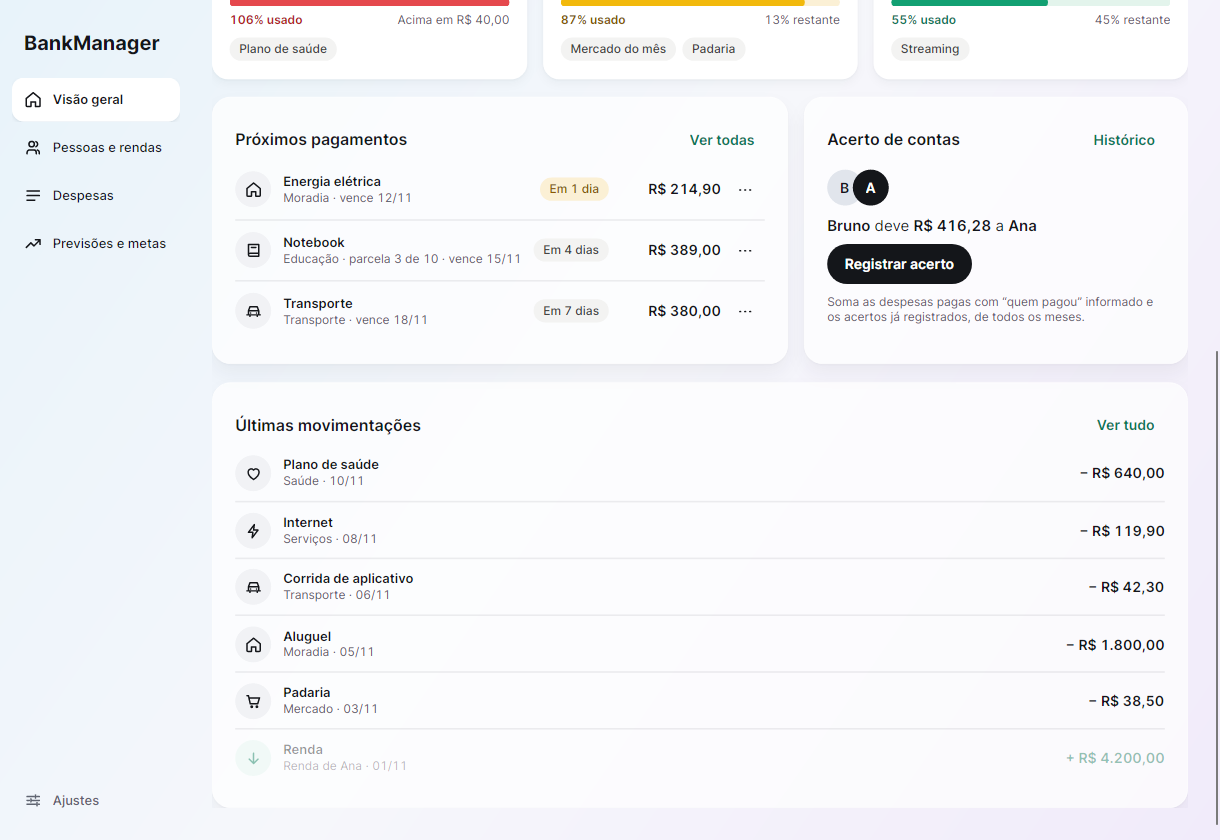
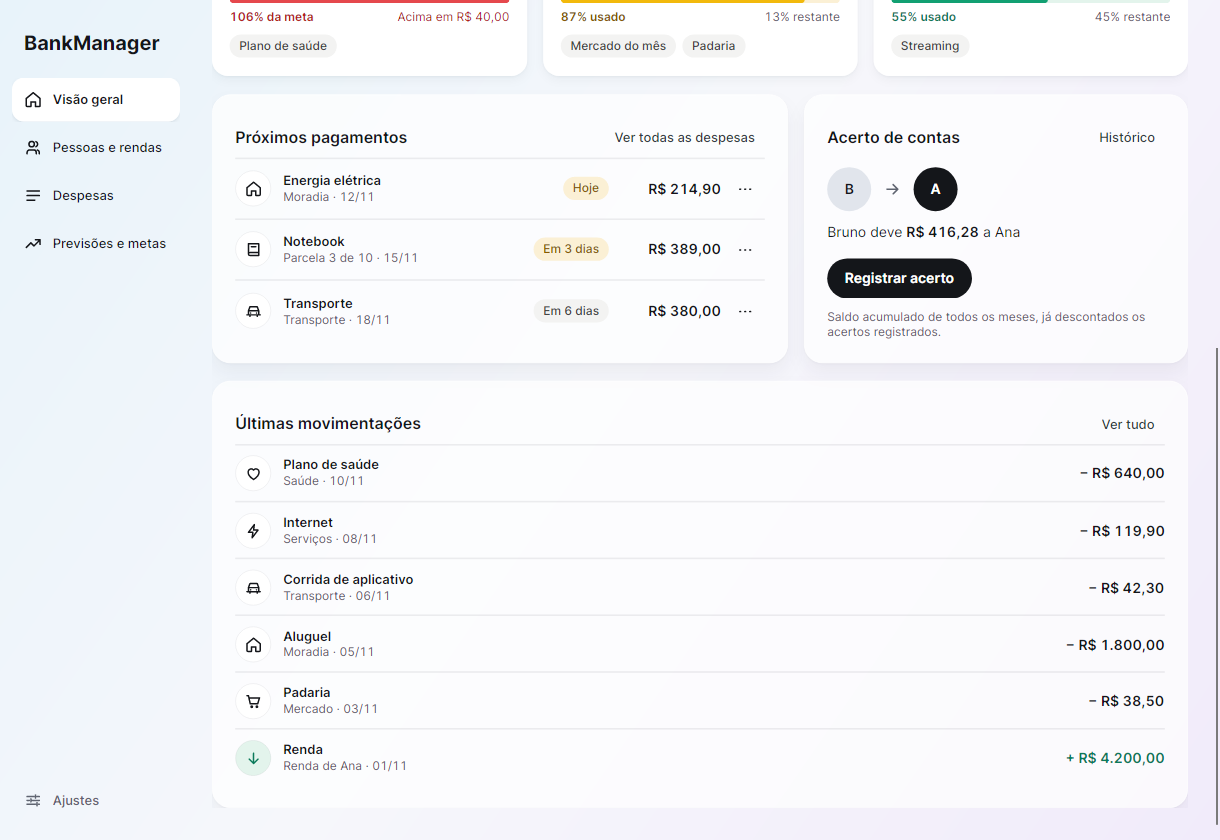
docs: versão 2.2.0, compartilhamento de despesas, data de pagamento e resumo da evolução
README com capturas novas, seção Compartilhar despesas, aviso de compatibilidade
(a 2.0 e a 2.1 não abrem dados salvos pela 2.2) e tabela de downloads da 2.2.0.
LEIA-ME, guia do código e notas de versão atualizados. O resumo da evolução passa a
cobrir até a 2.2 e entra no repositório. O .gitignore passa a ignorar arquivos de
compartilhamento (*.bmshare.json).

diff --git a/README.md b/README.md
@@ -8,6 +8,8 @@ Aplicativo desktop de gestão financeira individual e familiar em **C# / .NET 10
 ![Fim da visão geral: próximos pagamentos, acerto de contas e últimas movimentações (dados de demonstração)](docs/visao-geral-2.png)
 ![Metas por categoria em Previsões e metas (dados de demonstração)](docs/metas.png)
 ![Lista de despesas no tema escuro (dados de demonstração)](docs/despesas-escuro.png)
+![Assistente Compartilhar despesas (dados de demonstração)](docs/compartilhar.png)
+![Assistente Importar despesas compartilhadas (dados de demonstração)](docs/importar-compartilhadas.png)
 
 ## Baixar pronto e compartilhar
 
@@ -15,14 +17,16 @@ Aplicativo desktop de gestão financeira individual e familiar em **C# / .NET 10
 
 | Computador | Arquivo | Como usar |
 | --- | --- | --- |
-| Windows 64 bits (Intel/AMD) | `BankManager-2.1.0-win-x64-setup.exe` | **Instalador (recomendado).** Dê dois cliques; instala só para você, sem administrador, com atalho no menu Iniciar |
-| Windows 64 bits (Intel/AMD) | `BankManager-2.1.0-win-x64.zip` | Portátil: extrair **tudo** e abrir `BankManager.exe` |
-| Linux 64 bits (Intel/AMD) | `BankManager-2.1.0-x86_64.AppImage` | **Um arquivo só (recomendado).** `chmod +x` e dois cliques, ou `./BankManager-2.1.0-x86_64.AppImage` |
-| Linux 64 bits (Intel/AMD) | `BankManager-2.1.0-linux-x64.tar.gz` | Portátil: extrair **tudo**, `./Iniciar.sh`; `./Instalar-atalho.sh` cria o atalho e o ícone no menu |
+| Windows 64 bits (Intel/AMD) | `BankManager-2.2.0-win-x64-setup.exe` | **Instalador (recomendado).** Dê dois cliques; instala só para você, sem administrador, com atalho no menu Iniciar |
+| Windows 64 bits (Intel/AMD) | `BankManager-2.2.0-win-x64.zip` | Portátil: extrair **tudo** e abrir `BankManager.exe` |
+| Linux 64 bits (Intel/AMD) | `BankManager-2.2.0-x86_64.AppImage` | **Um arquivo só (recomendado).** `chmod +x` e dois cliques, ou `./BankManager-2.2.0-x86_64.AppImage` |
+| Linux 64 bits (Intel/AMD) | `BankManager-2.2.0-linux-x64.tar.gz` | Portátil: extrair **tudo**, `./Iniciar.sh`; `./Instalar-atalho.sh` cria o atalho e o ícone no menu |
 
 Todos incluem o .NET: não é preciso instalar SDK, Rider ou Visual Studio. Para compartilhar, envie o **link da release** ou o arquivo **completo**. Não envie só o executável, nem seus backups financeiros. Veja [as instruções incluídas no pacote](docs/LEIA-ME.txt).
 
 **Sem assinatura digital.** O Windows pode avisar "editor não identificado"; confira que o download veio deste repositório e, se quiser, o checksum (`.sha256`, mais abaixo). No Linux, é necessário desktop com X11/XWayland e bibliotecas do sistema; ARM e Alpine/musl não têm pacote. O AppImage usa FUSE; sem ele, rode com `--appimage-extract-and-run`.
+
+**Antes de atualizar, exporte um backup** (Ajustes → Exportar backup). A versão 2.2 grava os dados em um formato novo (esquema 3, com a data de pagamento). Ela abre e atualiza sem perda os dados das versões 1.x, 2.0 e 2.1, mas **as versões 2.0 e 2.1 (e a 1.x) não abrem dados já salvos pela 2.2**.
 
 **Atualizar.** O aplicativo **nunca acessa a internet**, então não tem atualizador próprio. No Windows, rode o instalador novo: ele atualiza por cima da versão instalada. No Linux, baixe o AppImage novo (ou use a ferramenta [AppImageUpdate](https://github.com/AppImage/AppImageUpdate) sobre o arquivo antigo, que lê a informação de atualização embutida e baixa só a diferença). No pacote portátil, extraia a versão nova em outra pasta. Em todos os casos seus dados ficam na pasta local da sua conta, separados do programa: atualizar ou desinstalar **não os apaga**. Mesmo assim, exporte um backup antes de atualizar. A versão 2 grava os dados no esquema 2, que o BankManager 1.x não abre; as versões antigas dos dados são lidas e atualizadas sem perda.
 
@@ -50,7 +54,9 @@ A restauração inicial requer NuGet ou pacotes já presentes no cache. O uso do
 4. Para dívidas parceladas, informe o **valor total**, incluindo juros já negociados, e até 120 parcelas. Cada vencimento é criado no mês correspondente. Listas de itens são lançadas à vista.
 5. Para contas fixas (aluguel, internet, assinaturas), marque **Repetir todo mês** ao criar a despesa. Em **Despesas → Recorrentes** (ou em **Previsões e metas → Despesas recorrentes**) você encerra ou remove cada uma. Na lista de despesas, use o menu **⋯** de cada linha para marcar como paga, editar ou excluir; filtre por busca, situação e categoria e navegue entre meses. **Ctrl+N** abre uma nova despesa em qualquer tela.
 6. Em **Previsões e metas**, um submenu reúne as metas por categoria, a previsão do mês seguinte ao selecionado, as despesas recorrentes e o acerto de contas.
-7. Em **Ajustes**, escolha o tema (claro, escuro ou automático) e exporte backups para outro local. Importações são validadas e pedem confirmação antes de substituir o histórico.
+7. Ao marcar uma despesa como paga, o aplicativo guarda **quem pagou** e a **data do pagamento** (hoje, ou a que você informar). A lista mostra "Pago em dd/MM".
+8. Para mandar algumas despesas a outra pessoa, use **Despesas → Compartilhar**; quem recebe usa **Importar** e as despesas são adicionadas às dela, sem substituir nada (veja [Compartilhar despesas](#compartilhar-despesas)).
+9. Em **Ajustes**, escolha o tema (claro, escuro ou automático) e exporte backups para outro local. Importações são validadas e pedem confirmação antes de substituir o histórico.
 
 ## Regras financeiras
 
@@ -61,14 +67,36 @@ A restauração inicial requer NuGet ou pacotes já presentes no cache. O uso do
 - Os centavos restantes do rateio seguem os maiores restos fracionários, com desempate estável por identificador. A soma sempre coincide com a despesa.
 - Parcelas distribuem exatamente o total, incluindo centavos, preservando o dia de referência quando possível: 31/jan → 28 ou 29/fev → 31/mar.
 - Editar uma renda ou despesa individual recalcula o rateio daquele mês. O histórico não é um livro contábil imutável. Uma edição/exclusão de parcela afeta apenas o lançamento selecionado.
-- **Saldo planejado = renda − todas as despesas do mês**, pagas ou em aberto. Marcar pago quita o lançamento inteiro para todos os responsáveis; não há pagamento parcial ou conciliação bancária.
+- **Saldo planejado = renda − todas as despesas do mês**, pagas ou em aberto. Marcar pago quita o lançamento inteiro para todos os responsáveis e guarda a data do pagamento; reabrir apaga a data e quem pagou. Não há pagamento parcial ou conciliação bancária. O saldo e o gráfico seguem o **vencimento**; só a lista de últimas movimentações segue a data do pagamento.
 
 ## Planilhas (CSV)
 
 Em **Ajustes → Seus dados → Planilhas**:
 
-- **Exportar despesas (CSV):** todas as despesas, com data, descrição, categoria, valor, situação, quem pagou, responsáveis, divisão, parcela e se é recorrente. O arquivo usa ponto e vírgula, vírgula decimal e UTF-8 com BOM, então abre direto no Excel em português. Textos que começam com `=`, `+`, `-` ou `@` recebem um apóstrofo, para a planilha não executá-los como fórmula.
-- **Importar extrato (CSV):** um assistente lê o arquivo (UTF-8 ou Latin-1; separador `;`, `,` ou tabulação), sugere as colunas de data, descrição e valor, e mostra ao vivo o que será importado, ignorado, repetido ou com erro (com o número da linha). Valores negativos são despesas (extrato de conta); para fatura de cartão, escolha "Positivos". Entradas, estornos e valor zero são ignorados. As despesas entram **já pagas**, na categoria **Outros** e **sem "quem pagou"**, então não entram no acerto de contas; edite cada uma para mudar a categoria. Importar o mesmo extrato duas vezes não repete nada (mesma data, valor e descrição). Limites: 5 MB e 10.000 linhas.
+- **Exportar despesas (CSV):** todas as despesas, com data, descrição, categoria, valor, situação, quem pagou, responsáveis, divisão, parcela, se é recorrente e a data do pagamento. O arquivo usa ponto e vírgula, vírgula decimal e UTF-8 com BOM, então abre direto no Excel em português. Textos que começam com `=`, `+`, `-` ou `@` recebem um apóstrofo, para a planilha não executá-los como fórmula.
+- **Importar extrato (CSV):** um assistente lê o arquivo (UTF-8 ou Latin-1; separador `;`, `,` ou tabulação), sugere as colunas de data, descrição e valor, e mostra ao vivo o que será importado, ignorado, repetido ou com erro (com o número da linha). Valores negativos são despesas (extrato de conta); para fatura de cartão, escolha "Positivos". Entradas, estornos e valor zero são ignorados. As despesas entram **já pagas**, na categoria **Outros** e **sem "quem pagou"**, então não entram no acerto de contas; edite cada uma para mudar a categoria. Importar o mesmo extrato duas vezes não repete nada (mesma data, valor e descrição). Limites: 5 MB e 10.000 linhas. A data de cada linha vira também a data do pagamento.
+
+## Compartilhar despesas
+
+Serve para passar **algumas** despesas a outra pessoa que usa o BankManager (por exemplo, as contas da casa para quem divide com você). É diferente do backup: o backup leva tudo e, ao ser importado, **substitui** a base; o compartilhamento leva só o que você marcar e, ao ser importado, **adiciona**.
+
+**Enviar (Despesas → Compartilhar, ou Ajustes → Compartilhar despesas):**
+
+- Marque as despesas nas caixas de seleção ou use os atalhos: **Todas deste mês**, **Marcar uma categoria** e **Completar parcelas** (marca as outras parcelas das compras parceladas já marcadas).
+- A prévia mostra quantas despesas vão, o total e as pessoas citadas. O arquivo tem extensão própria, `.bmshare.json`.
+- Vão no arquivo: descrição, categoria, vencimento, valor, itens da lista de compra, dados de parcela, modo de divisão, os responsáveis **pelo nome** e as categorias próprias usadas. **Nunca vão:** rendas, metas, acertos de contas e despesas não marcadas.
+- Por padrão, todas vão "em aberto". Marque **Incluir a situação de pagamento** para levar também pago/em aberto, a data do pagamento e quem pagou.
+- O arquivo é um texto legível, sem senha, com informações financeiras: envie só para quem deve recebê-lo.
+
+**Receber (Despesas → Importar, ou Ajustes → Importar despesas compartilhadas):**
+
+1. O arquivo é validado (tamanho de até 5 MB, até 5.000 despesas, campos desconhecidos e versões mais novas recusados) e resumido.
+2. **Pessoas:** para cada nome do arquivo, escolha uma pessoa já cadastrada, criar um cadastro novo ou ignorar. O aplicativo sugere pelo nome (sem diferenciar maiúsculas e acentos), mas a escolha é sua. Se todas as pessoas de uma despesa forem ignoradas, é preciso escolher quem assume.
+3. **Categorias** próprias que não existem na sua base: criar (até o limite de 40) ou usar "Outros".
+4. **Prévia ao vivo:** o que será adicionado, o que já existe e o que tem erro. Cada despesa carrega um identificador de origem; importar o mesmo arquivo duas vezes **não duplica** nada (as repetidas são puladas, a menos que você marque para importar mesmo assim).
+5. Ao confirmar, tudo é gravado de uma vez (ou nada, se algo falhar), e a versão anterior da base vira a cópia automática. No fim aparece "N despesas adicionadas, M puladas".
+
+Atenção à **divisão proporcional**: ela depende da renda de cada pessoa na base de quem importa, então o rateio é recalculado com as rendas de lá e pode ser diferente do seu. Quem importa pode manter o modo ou trocar por divisão igual. Despesas recorrentes viajam como despesas comuns (o modelo "todo mês" não é enviado). Um backup escolhido no lugar de um compartilhamento (ou o contrário) é recusado com uma mensagem clara, sem alterar nada.
 
 ## Buscar em todos os meses
 
@@ -85,7 +113,7 @@ De cima para baixo:
 - **Saldo planejado:** renda do mês menos todas as despesas do mês (pagas ou em aberto), com um gráfico das despesas dos últimos 6 meses até o mês selecionado. O eixo do gráfico sempre começa em zero, para não exagerar diferenças; passe o mouse em uma barra para ver o valor. Meses sem despesas aparecem com uma barra mínima.
 - **Resumo da casa:** despesas do mês, quanto da renda elas comprometem, renda e valor em aberto.
 - **Metas do mês**, **Próximos pagamentos** (as três contas em aberto mais próximas, com o menu **⋯**) e **Acerto de contas**.
-- **Últimas movimentações:** as rendas do mês e as despesas já marcadas como pagas, das mais recentes para as mais antigas (até 6; "Ver tudo" abre Despesas). Como a renda só tem mês, ela entra com a data do dia 1; a despesa entra pela data de vencimento, porque o aplicativo não guarda o dia do pagamento. Quando há mais itens do que cabem, a última linha fica esmaecida.
+- **Últimas movimentações:** as rendas do mês e as despesas pagas, das mais recentes para as mais antigas (até 6; "Ver tudo" abre Despesas). Como a renda só tem mês, ela entra com a data do dia 1. A despesa entra pela **data do pagamento** e aparece no mês em que foi paga; as que foram pagas em versões anteriores, sem essa data, usam o vencimento.
 
 ## Metas por categoria
 
@@ -127,7 +155,7 @@ Parcelas ficam fora da média para não continuarem sendo previstas após o tér
 
 Os arquivos ficam em `Environment.SpecialFolder.LocalApplicationData/BankManager` (o caminho efetivo aparece na interface). Para desenvolvimento/testes, `BANKMANAGER_DATA_DIR` permite escolher uma pasta isolada.
 
-- `financas.json`: base atual, JSON versionado (esquema 2, que acrescentou as despesas recorrentes). Arquivos e backups da versão 1 continuam sendo lidos e são atualizados sem perda; o arquivo antigo vira a cópia anterior no primeiro salvamento. Um arquivo de versão mais nova que a do aplicativo é recusado.
+- `financas.json`: base atual, JSON versionado (esquema 3: o 2 acrescentou recorrências, quem pagou, metas e categorias; o 3, a data de pagamento e a origem de despesas importadas). Arquivos e backups das versões 1 e 2 continuam sendo lidos e são atualizados sem perda; o arquivo antigo vira a cópia anterior no primeiro salvamento. Um arquivo de versão mais nova que a do aplicativo é recusado.
 - `settings.json`: preferências do aplicativo (tema). Fica separado das finanças: trocar a aparência nunca altera o `financas.json`, e um arquivo de preferências inválido apenas volta ao padrão.
 - `financas.backup.json`: versão anterior ao último salvamento, não um histórico ilimitado de backups.
 - `.lock`: bloqueio de acesso concorrente por outra instância cooperante do aplicativo.
@@ -189,10 +217,10 @@ No Windows, use `python` no lugar de `python3`. O script escolhe o SDK em `~/.do
 Para conferir o download no Linux, no diretório dos arquivos:
 
 ```bash
-sha256sum -c BankManager-2.1.0-linux-x64.tar.gz.sha256
+sha256sum -c BankManager-2.2.0-linux-x64.tar.gz.sha256
 ```
 
-No PowerShell, execute `Get-FileHash .\BankManager-2.1.0-win-x64.zip -Algorithm SHA256` e compare o resultado com o conteúdo do arquivo `.sha256`.
+No PowerShell, execute `Get-FileHash .\BankManager-2.2.0-win-x64.zip -Algorithm SHA256` e compare o resultado com o conteúdo do arquivo `.sha256`.
 
 ### Instalador do Windows e AppImage
 
@@ -211,7 +239,7 @@ O workflow [Build and release](.github/workflows/release.yml) compila, testa e e
 
 1. Atualize `Version` em `BankManager/BankManager.csproj`, as instruções com nomes de arquivos e `docs/RELEASE-NOTES.md`.
 2. Faça commit e push dessas mudanças.
-3. Crie e envie uma tag correspondente, por exemplo `git tag v2.1.1` e `git push origin v2.1.1`.
+3. Crie e envie uma tag correspondente, por exemplo `git tag v2.2.0` e `git push origin v2.2.0`.
 4. O workflow publica instaladores e pacotes na página Releases somente após todos os jobs passarem.
 
 Referências: [publicação desktop do Avalonia no Linux](https://docs.avaloniaui.net/docs/deployment/linux) e [modelos de distribuição do .NET](https://learn.microsoft.com/en-us/dotnet/core/deploying/).

diff --git a/docs/RESUMO-DA-EVOLUCAO.md b/docs/RESUMO-DA-EVOLUCAO.md
@@ -1,0 +1,125 @@
+# Resumo da evolução do BankManager (1.0 → 2.2)
+
+Este documento conta, em linguagem simples, tudo o que foi feito desde a versão 1.0: o que mudou, por quê, como foi verificado e o que ainda precisa de atenção. As fases 1 a 4 formam a versão 2.0; as fases 5 e 6, as versões 2.1 e 2.2.
+
+## Em uma frase
+
+O BankManager ganhou um visual novo (temas claro, escuro e automático), sete sistemas novos (recorrências, quem pagou, metas, categorias próprias, várias rendas, busca geral e CSV), instaladores para Windows e Linux, depois um segundo redesenho ("Estilo C"), a data de pagamento das despesas e o compartilhamento de despesas entre pessoas, sem nunca acessar a internet.
+
+## Fase 1 — Fundação visual
+
+| O que | Como ficou |
+| --- | --- |
+| Temas | Todas as cores estão em `BankManager/Styles/Tokens.axaml`, uma versão para claro e outra para escuro. O código C# não tem nenhuma cor escrita. Trocar uma cor é editar um arquivo só. |
+| Preferência de tema | Fica em `settings.json`, separado do `financas.json`. Mudar o tema nunca mexe nos dados financeiros. Se o arquivo estiver corrompido, o app volta ao padrão (Automático). |
+| Ícones | Vetoriais, em `Styles/Icons.axaml`, iguais no Windows e no Linux (antes eram caracteres de texto). Há também um ícone do aplicativo. |
+| Código | `MainWindow.cs` foi dividido em um arquivo por página, na pasta `Pages/`. |
+| Fonte | A fonte Inter já estava no projeto, mas nunca era usada (um estilo a sobrescrevia). Foi corrigido. |
+| README | Um caminho pessoal de pasta saiu do repositório público. |
+
+**MVVM:** não foi adotado. Reescreveria todas as telas sem ganho visível, e as regras de cálculo já estão separadas no Core. A divisão em `Pages/` prepara o terreno se um dia for necessário.
+
+## Fase 2 — Novo visual (versão 2.0; substituído na 2.1 pelo "Estilo C", veja a fase 5)
+
+Seguiu os seus protótipos e as cores do documento (todos os pares texto/fundo têm contraste de pelo menos 4,5:1).
+
+- Menu lateral de 232 px, cabeçalho em cada página, aviso no topo, atalho **Ctrl+N** para nova despesa.
+- **Visão geral:** faixa de indicadores, "Para onde vai o dinheiro", "Divisão por pessoa" e "Próximos pagamentos" com chip de prazo.
+- **Despesas:** lista em linhas, chips (Pago, Em aberto, Vence em N dias, Em atraso), filtro segmentado, busca e menu "⋯" em cada linha.
+- **Pessoas, Previsões e Ajustes** redesenhadas; Ajustes ganhou cartões de tema com miniatura e ajuda que abre e fecha.
+- Estados vazios amigáveis e mensagens de erro em linguagem simples.
+
+## Fase 3 — Novos sistemas
+
+Todos usam o esquema de dados **versão 2** (a 2.2 passou para a versão 3; veja a fase 6). Arquivos da versão 1 abrem e são atualizados sem perda; o arquivo antigo vira a cópia anterior no primeiro salvamento. Um arquivo de versão maior que a do app é recusado.
+
+| # | Sistema | Resumo |
+| --- | --- | --- |
+| 1 | **Despesas recorrentes** | Marque "Repetir todo mês": o app cria a despesa em cada mês, até 12 meses à frente, sem duplicar. Dia 31 vence no último dia dos meses curtos. Cada mês é independente (pagar, editar, excluir). "Recorrentes" permite encerrar (mantém o que já foi pago) ou remover. |
+| 2 | **Quem pagou e acerto de contas** | Ao marcar como paga, o app pergunta quem pagou. O cartão "Acerto de contas" mostra quem deve a quem (saldo acumulado, com compensação entre os dois sentidos). "Registrar acerto" abate a dívida; há um histórico. |
+| 3 | **Metas por categoria** | Uma meta mensal fixa por categoria. A barra fica âmbar a partir de 80% e vermelha acima de 100%. |
+| 4 | **Várias rendas por pessoa** | Salário, extra, 13º: cada pessoa pode ter várias linhas de renda no mês. A renda do mês é a soma. |
+| 5 | **Categorias próprias** | As 8 padrão são fixas; você cria as suas (até 40). Renomear atualiza despesas, recorrências e metas. Excluir só se não estiver em uso. |
+| 6 | **Busca em todos os meses** | Seletor "Este mês / Todos os meses". Ignora maiúsculas e acentos ("saude" acha "Saúde"). |
+| 7 | **CSV** | Exportar despesas (abre direto no Excel em português; textos que parecem fórmula são neutralizados). Importar extrato do banco com assistente: colunas sugeridas, prévia ao vivo, linhas com erro apontadas e importação repetida sem duplicar. As despesas importadas entram já pagas, na categoria Outros, sem "quem pagou". |
+
+**Decisões minhas:** meta fixa para todos os meses; saldo do acerto acumulado e pergunta "Quem pagou?" sempre; sem "editar valor daqui em diante" nas recorrências (encerre e crie outra).
+
+## Fase 4 — Windows e Linux
+
+- **Windows:** instalador (Inno Setup) por usuário, sem administrador, com atalho no menu Iniciar e atualização por cima. O desinstalador não apaga os dados.
+- **Linux:** AppImage (um arquivo só) e `Instalar-atalho.sh` no pacote portátil, que cria o ícone no menu sem sudo.
+- Os pacotes portáteis (`.zip` e `.tar.gz`) continuam existindo.
+- **CI** (`.github/workflows/release.yml`): gera tudo, roda os testes de interface também no Windows (como aviso) e faz um teste de fumaça de cada instalador.
+- **Versão:** 2.0.0 nesta fase (hoje 2.2.0).
+- **Sem Velopack:** o atualizador dele faria o app consultar a internet, contra a regra de funcionar 100% offline. No Windows, o instalador novo atualiza por cima; no Linux, baixa-se o AppImage novo (ou usa-se `AppImageUpdate`). Flatpak ficou de fora por ser pesado para o ganho.
+
+## Fase 5 — "Estilo C" (versão 2.1)
+
+O visual inteiro foi trocado pela direção aprovada no protótipo: sai o roxo, entram verde e tons neutros.
+
+- **Aparência:** fundo em degradê bem claro, cartões translúcidos (branco com transparência, sem depender de efeitos do sistema), cartões brancos para as metas e um cartão escuro "Resumo da casa". Números com algarismos de mesma largura em todo o aplicativo.
+- **Menu e cabeçalho:** menu de 188 px com a marca em texto e "Ajustes" no rodapé. O mês fica em uma pílula; clicar no nome do mês volta ao mês atual (ele tem cara de botão, dica e nome acessível).
+- **Visão geral:** saldo planejado em destaque, gráfico das despesas dos últimos 6 meses (desenhado pelo próprio aplicativo, com eixo começando em zero), metas do mês em cartões, próximos pagamentos, acerto de contas e a nova lista **Últimas movimentações**.
+- **Previsões e metas:** um submenu reúne metas por categoria, previsão do próximo mês, despesas recorrentes e acerto de contas. Nada saiu do lugar antigo: os atalhos continuam em Despesas e na Visão geral.
+- **Pessoas e rendas** mostra quanto cada pessoa assume das despesas e quanto sobra (a antiga "Divisão por pessoa").
+
+**Diferenças conscientes em relação ao protótipo:** o eixo do gráfico começa em zero (no protótipo começa em R$ 3 mil, o que exagera diferenças) e o texto do acerto diz "saldo acumulado de todos os meses, já descontados os acertos", que é o que o cálculo faz.
+
+## Fase 6 — Data de pagamento e compartilhamento (versão 2.2)
+
+| O que | Como ficou |
+| --- | --- |
+| **Data de pagamento** | Marcar como paga guarda o dia (hoje, ou o que você digitar no diálogo "Quem pagou?" ou no formulário). Reabrir apaga. A lista mostra "Pago em dd/MM". |
+| **Últimas movimentações** | Passam a usar a data do pagamento: a despesa aparece no mês em que foi paga. A linha esmaecida foi removida; todas têm opacidade total. |
+| **Esquema versão 3** | Arquivos das versões 1 e 2 abrem e são atualizados em cadeia, sem perda; o arquivo antigo vira a cópia anterior. Despesas já pagas ficam **sem** data de pagamento (o app não inventa uma): vale o vencimento. |
+| **Compartilhar despesas** | Você marca algumas despesas e gera um arquivo `.bmshare.json`. É outro tipo de arquivo, diferente do backup: leva só as despesas marcadas, com as pessoas pelo nome. Nunca leva rendas, metas ou acertos. |
+| **Importar sem substituir** | Quem recebe passa por um assistente: confere o arquivo, diz quem é cada pessoa (existente, nova ou ignorar), decide as categorias que faltam e vê a prévia. As despesas são **adicionadas**; nada é apagado. Importar o mesmo arquivo duas vezes não duplica. Tudo é gravado de uma vez, ou nada. |
+
+**Decisões minhas nesta fase:** a seleção para compartilhar fica em uma lista com caixas dentro do assistente (não na lista principal de despesas); o assistente de importação mostra os passos numerados em uma só janela, com a prévia ao vivo; despesas recorrentes viajam como despesas comuns; na divisão proporcional, quem importa escolhe entre manter o modo (recalculado com as rendas de lá) ou dividir igualmente.
+
+## Como foi verificado
+
+- Build sem avisos.
+- **95 testes de domínio** (cálculos, validação, recorrências, acerto, CSV, migração com arquivos reais das versões 1 e 2, data de pagamento, compartilhamento: seleção parcial, mapeamentos, duplicatas, parcelas, tipo errado de arquivo, arquivo adulterado e gravação tudo-ou-nada).
+- **54 verificações de interface** com a janela real (cadastro, pagamento com data, acerto, recorrência, categorias, metas, abas, importação de extrato, tema, atalho e o fluxo completo exportar → importar despesas em uma base com dados).
+- Contraste de pelo menos 4,5:1 entre texto e fundo nos dois temas, conferido por script.
+- Capturas com dados de demonstração (fictícios) comparadas com o protótipo.
+
+## O que ainda não foi testado
+
+- **Windows de verdade:** fontes, DPI, degradê, sombras, instalador e desinstalador. A CI exercita, mas como aviso.
+- **Seletores de arquivo do sistema** (salvar e abrir): os testes entregam o caminho pronto, sem abrir a janela nativa.
+- **Mouse de verdade:** o balão do gráfico ao passar o mouse e os menus "⋯" abertos; os testes disparam os eventos direto.
+- **Dois computadores:** o compartilhamento foi testado na mesma máquina, simulando o arquivo de outra pessoa.
+- Leitores de tela e navegação completa por teclado; três ou mais pessoas no cartão de acerto (o cálculo é testado).
+
+## Efeitos que merecem atenção
+
+- **As versões 2.0 e 2.1 (e a 1.x) não abrem dados salvos pela 2.2.** Exporte um backup antes de atualizar.
+- Editar a renda de um mês antigo muda o que foi devido naquele mês (o rateio proporcional depende da renda). Excluir uma despesa já paga também muda o saldo do acerto.
+- Uma despesa importada com divisão proporcional é rateada com as rendas de quem importa: o resultado pode ser diferente do de quem enviou.
+- O saldo do mês e o gráfico seguem o **vencimento**; só as últimas movimentações seguem a data do pagamento.
+- Mudar uma meta muda a leitura dos meses passados.
+- Instaladores e pacotes não são assinados digitalmente; o Windows pode avisar "editor não identificado".
+- Os dados, os backups e os arquivos de compartilhamento continuam sem criptografia (senha opcional está no backlog, junto com metas de poupança).
+
+## Para onde olhar no código
+
+| Assunto | Onde |
+| --- | --- |
+| Regras e cálculos (sem interface) | `BankManager.Core/` |
+| Telas | `BankManager/Pages/` |
+| Cores, ícones e estilos | `BankManager/Styles/` |
+| Componentes (chip, avatar, botões...) | `BankManager/Ui.cs` |
+| Testes | `BankManager.Tests/` (domínio) e `BankManager.UiTests/` (janela real) |
+| Gráfico da visão geral | `BankManager/Controls/BarChart.cs` |
+| Compartilhamento de despesas | `BankManager.Core/ExpenseShare.cs` e `BankManager/Pages/ShareDialogs.cs` |
+| Empacotamento | `scripts/package.py`, `scripts/installers.py`, `installer/` |
+| Explicações mais detalhadas | `README.md` e `docs/GUIA-DO-CODIGO.md` |
+
+## Próximos passos sugeridos
+
+1. Conferir o resultado da CI no Pull Request e os arquivos gerados.
+2. Testar o instalador e o visual em um Windows real antes de divulgar.
+3. Só então: merge na `main`, tag `v2.2.0` e conferência da página de Releases (passo a passo no README).

diff --git a/docs/RELEASE-NOTES.md b/docs/RELEASE-NOTES.md
@@ -1,36 +1,32 @@
-BankManager 2.1: gestão financeira individual e familiar, em português, com dados locais e sem internet.
+BankManager 2.2: gestão financeira individual e familiar, em português, com dados locais e sem internet.
 
-## Novidades da 2.1
+## Novidades da 2.2
 
-- **Visual novo ("Estilo C"):** arejado e minimalista, em verde e tons neutros, com fundo em degradê, cartões translúcidos e menu lateral mais estreito. Continua com tema **claro, escuro ou automático**.
-- **Visão geral redesenhada:** saldo planejado em destaque, **gráfico das despesas dos últimos 6 meses**, cartão "Resumo da casa", metas do mês em cartões, próximos pagamentos e acerto de contas.
-- **Últimas movimentações:** nova lista com as rendas do mês e as despesas pagas, das mais recentes para as mais antigas.
-- **Previsões e metas:** a página ganhou um submenu com metas por categoria, previsão do próximo mês, despesas recorrentes e acerto de contas. Tudo continua acessível também de onde já estava.
-- **Pessoas e rendas** mostra quanto cada pessoa assume das despesas do mês e quanto sobra.
-- Ícones por categoria e números com algarismos de mesma largura em todo o aplicativo.
+- **Compartilhar despesas:** marque algumas despesas, gere um arquivo (`.bmshare.json`) e envie a outra pessoa. Ao importar, as despesas são **adicionadas** às dela, sem substituir nem apagar nada. O assistente mapeia pessoas e categorias, mostra uma prévia e não duplica o que já foi importado. O arquivo nunca leva rendas, metas ou acertos.
+- **Data de pagamento:** ao marcar uma despesa como paga, o aplicativo guarda o dia (hoje, ou o que você informar). A lista mostra "Pago em dd/MM" e as **Últimas movimentações** passam a seguir a data do pagamento.
+- **Visual novo ("Estilo C"),** desde a 2.1: verde e tons neutros, fundo em degradê, cartões translúcidos, visão geral com saldo em destaque, gráfico dos últimos 6 meses, metas em cartões e últimas movimentações. **Previsões e metas** reúne metas, previsão, recorrentes e acerto de contas.
+- Extrato importado em CSV usa a data de cada linha como data do pagamento; a planilha exportada ganhou a coluna "Pago em".
 
-As regras de cálculo e o formato dos dados **não mudaram**: a 2.1 abre os dados da 2.0 e vice-versa.
+## Antes de atualizar
+
+**Exporte um backup** (Ajustes → Exportar backup). A 2.2 grava os dados em um formato novo (esquema 3). Ela abre e atualiza sem perda os dados das versões 1.x, 2.0 e 2.1, e o arquivo antigo fica como cópia anterior no primeiro salvamento. Mas **as versões 2.0, 2.1 e 1.x não abrem dados já salvos pela 2.2**.
+
+Despesas que já estavam pagas ficam sem data de pagamento (ela não existia): nas telas, vale o vencimento.
 
 ## Instalar
 
-**Windows x64:** `BankManager-2.1.0-win-x64-setup.exe` (instalador, sem administrador) ou `BankManager-2.1.0-win-x64.zip` (portátil).
+**Windows x64:** `BankManager-2.2.0-win-x64-setup.exe` (instalador, sem administrador) ou `BankManager-2.2.0-win-x64.zip` (portátil).
 
-**Linux x64:** `BankManager-2.1.0-x86_64.AppImage` (um arquivo; `chmod +x` e abrir) ou `BankManager-2.1.0-linux-x64.tar.gz` (portátil, com `./Instalar-atalho.sh`).
+**Linux x64:** `BankManager-2.2.0-x86_64.AppImage` (um arquivo; `chmod +x` e abrir) ou `BankManager-2.2.0-linux-x64.tar.gz` (portátil, com `./Instalar-atalho.sh`).
 
-Todos incluem o .NET. O arquivo `LEIA-ME.txt` traz as instruções completas.
-
-## Atualizar
-
-Da 2.0: basta instalar por cima; nada muda nos dados. Da 1.x: seus dados são lidos e atualizados sem perda na primeira vez que a versão 2 salvar, e o arquivo antigo fica como cópia anterior; **exporte um backup antes**, porque o BankManager 1.x não abre dados salvos pela versão 2.
-
-O aplicativo nunca acessa a internet e não tem atualizador próprio: no Windows, rode o instalador novo; no Linux, baixe o AppImage novo (ou use AppImageUpdate).
+Todos incluem o .NET. O arquivo `LEIA-ME.txt` traz as instruções completas. O aplicativo nunca acessa a internet e não tem atualizador próprio: no Windows, rode o instalador novo; no Linux, baixe o AppImage novo (ou use AppImageUpdate).
 
 ## Limitações conhecidas
 
 - Instaladores e pacotes **sem assinatura digital**: o Windows pode avisar sobre editor não identificado.
-- O visual no **Windows** (fontes, DPI, degradê, sombras, instalador) ainda não foi validado em um Windows real; a CI o testa, mas como aviso.
-- Em "Últimas movimentações", a despesa paga aparece na data de **vencimento**: o aplicativo não guarda o dia do pagamento.
+- O visual e o instalador no **Windows** ainda não foram validados em um Windows real; a CI os testa, mas como aviso.
+- Os dados, os backups e os arquivos de compartilhamento **não são criptografados**: são textos legíveis.
+- Na divisão proporcional, uma despesa importada é rateada com as rendas de quem importa, e o resultado pode ser diferente do de quem enviou.
 - Linux exige X11/XWayland e bibliotecas do sistema; sem ARM nem Alpine/musl. macOS não tem pacote.
-- Os dados não são criptografados.
 
 Os arquivos `.sha256` permitem conferir a integridade de cada download.

diff --git a/docs/GUIA-DO-CODIGO.md b/docs/GUIA-DO-CODIGO.md
@@ -20,7 +20,8 @@ Este guia liga os arquivos aos comportamentos do aplicativo. Os comentários em 
 14. `BankManager.Core/GoalEngine.cs`: metas mensais por categoria e seu progresso.
 15. `BankManager.Core/ExpenseSearch.cs`: busca e filtros da lista (um mês ou todos).
 16. `BankManager.Core/Csv.cs`, `CsvExport.cs` e `StatementImport.cs`: leitura/escrita de CSV, exportação e importação de extratos.
-17. `BankManager.Core/DueStatus.cs`: situação de vencimento (Pago, Em aberto, Vence em breve, Em atraso), base dos chips da interface.
+17. `BankManager.Core/ExpenseShare.cs`: arquivo de compartilhamento de despesas (exportar as escolhidas, importar adicionando); as telas ficam em `BankManager/Pages/ShareDialogs.cs`.
+18. `BankManager.Core/DueStatus.cs`: situação de vencimento (Pago, Em aberto, Vence em breve, Em atraso), base dos chips da interface.
 
 Os métodos e tipos C# possuem resumos XML (`///`), exibidos pelo Rider ao inspecionar um símbolo. Comentários `//` dentro dos métodos explicam etapas e decisões locais.
 
@@ -86,7 +87,7 @@ Dinheiro usa `decimal`. `ExpenseItem.Total` arredonda quantidade × preço para 
 
 `RecurrenceEngine.Generate` é idempotente: para cada modelo, cria só os meses que faltam entre o mês inicial e o horizonte (12 meses à frente), pulando os que o usuário excluiu (`SkippedMonths`). Por isso a interface sempre exclui lançamentos com `RemoveExpense`, que registra o mês ignorado. `End` e `Remove` mantêm o histórico pago. A data de referência entra por parâmetro, o que torna tudo testável.
 
-`BudgetData.Version` é a versão do esquema (hoje 2). `BudgetMigrations.ToCurrent` leva dados antigos à versão atual em memória, passo a passo, e `LocalStore.Read` o chama antes de validar; assim importações, recuperação e a base normal se beneficiam. Para criar a versão 3, acrescente um passo ali, suba `CurrentVersion` e escreva o teste "arquivo v2 migra para v3". Regra do projeto: a Fase 3 inteira usa o esquema 2, e novos campos desta fase entram nele com valores padrão que equivalem a "não usado".
+`BudgetData.Version` é a versão do esquema (hoje 3: a 2 trouxe recorrências, quem pagou, metas e categorias; a 3, `Expense.PaidDate` e `Expense.OriginId`). A migração é em cadeia (1 → 2 → 3) e os testes a exercitam com arquivos reais das versões 1 e 2, guardados em `BankManager.Tests/Fixtures/`. `BudgetMigrations.ToCurrent` leva dados antigos à versão atual em memória, passo a passo, e `LocalStore.Read` o chama antes de validar; assim importações, recuperação e a base normal se beneficiam. Para criar a versão 3, acrescente um passo ali, suba `CurrentVersion` e escreva o teste "arquivo v2 migra para v3". Regra do projeto: a Fase 3 inteira usa o esquema 2, e novos campos desta fase entram nele com valores padrão que equivalem a "não usado".
 
 ### Acerto de contas
 
@@ -131,6 +132,10 @@ O visual é o "Estilo C": o fundo da janela é um degradê (`BgBrush`, um `Linea
 A preferência (Automático, Claro ou Escuro) fica em `settings.json`, lida por `SettingsStore` antes de a janela aparecer. `App.ApplyTheme` ajusta `RequestedThemeVariant`; no modo Automático ele volta ao padrão, que acompanha o sistema.
 
 Os ícones são traços vetoriais 24×24 em `Icons.axaml`; `Ui.Icon("Home")` os desenha com a cor do botão que os contém, igual em Windows e Linux. O ícone do aplicativo vem de `Assets/icon.svg`; `scripts/make-icons.sh` gera o `icon.png` (janela) e o `icon.ico` (executável do Windows).
+
+### Compartilhar despesas
+
+`ExpenseShare` (Core) cuida de tudo sem tocar na interface. `Build` monta um `ShareFile` com as despesas escolhidas; as pessoas vão pelo nome, porque os Ids de quem envia não existem na base de quem recebe. `Read` e `Validate` aplicam as proteções do backup (tamanho, profundidade, campos desconhecidos, versão) e conferem o campo `Kind`, que distingue o compartilhamento do backup; `LocalStore.Read` faz a conferência inversa. `Suggest` propõe o mapeamento de pessoas e categorias, e `Import` calcula o resultado em uma cópia profunda e valida o orçamento inteiro: serve de prévia e não altera nada. Para gravar, a tela chama `Commit(d => ExpenseShare.Apply(d, ...))`, o mesmo caminho seguro de qualquer edição (cópia, validação, gravação atômica, cópia anterior). Cada despesa importada guarda em `OriginId` o Id que tinha na origem; é por ele que uma segunda importação reconhece as duplicadas.
 
 ### Componentes de interface
 
